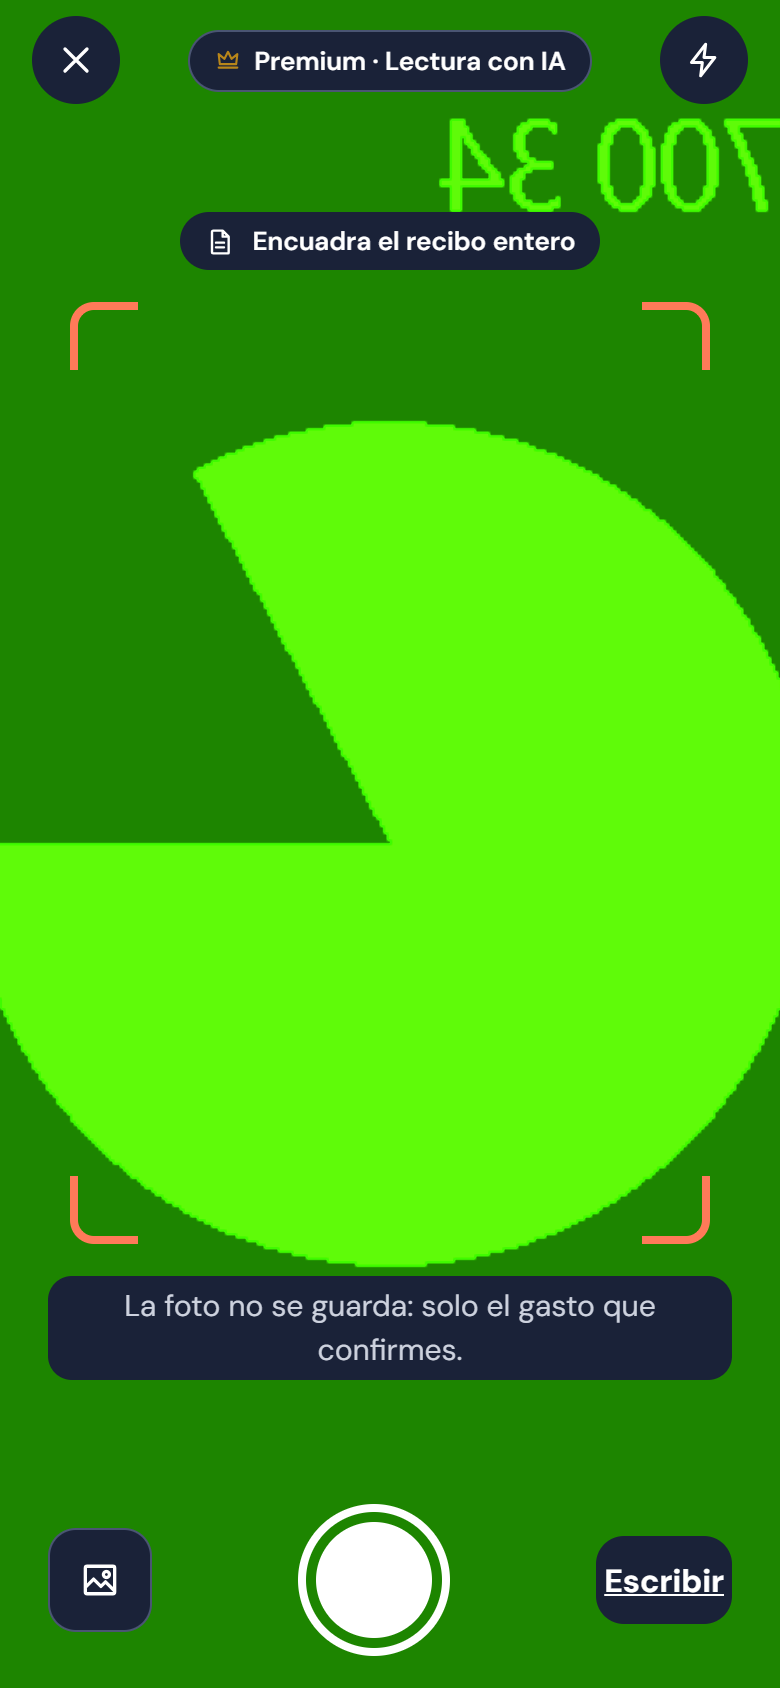
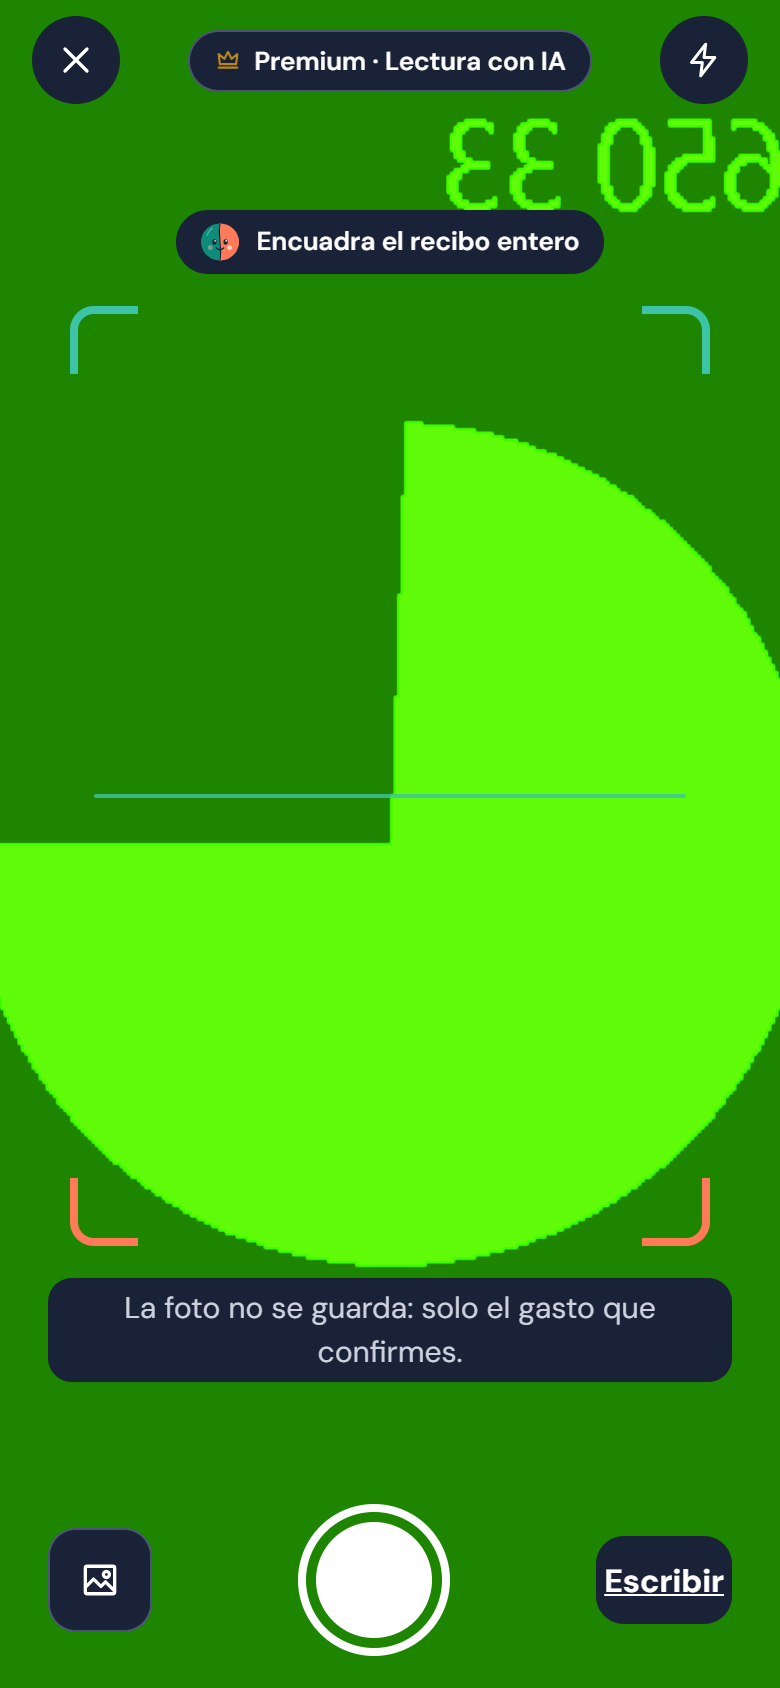
Match the Escanear and Dictar screens to the design
The receipt is a white paper card in both modes with a torn bottom edge,
the date with its year, Pagó in blue and the preview's result in coral.
The camera gets green top and coral bottom corners, a scan line and Miti
in the hint. Dictar's Escribir is blue and the transcript trails off while
listening. Only the new screens and their copy change; screenshots updated.

diff --git a/src/app/expense/receipt.tsx b/src/app/expense/receipt.tsx
@@ -74,12 +74,13 @@ function Review({ reading, couple, net }: { reading: ReceiptReading; couple: Cou
     reading.totalMinor !== null ? fmt(reading.totalMinor) : unknownForeign && reading.totalText ? `${reading.totalText} ${reading.foreignCurrency}` : t.totalUnread;
 
   // ─── The balance after this expense: balance_view + splits.ts ───
-  let preview: string | null = null;
+  let preview: { lead: string; part: string } | string | null = null;
   if (usable && draft.amountMinor) {
     const effect = expenseEffect({ paidBy, amountMinor: draft.amountMinor, splitMode, splitPct: choice.splitPct }, me.id);
     const after = net + effect;
     const own = (n: number) => formatMoney(n, couple.currency);
-    preview = effect === 0 ? t.noChange : after > 0 ? t.owesYou(partner.name, own(after)) : after < 0 ? t.youOwe(partner.name, own(after)) : t.even;
+    const part = after > 0 ? t.owesYou(partner.name, own(after)) : after < 0 ? t.youOwe(partner.name, own(after)) : t.even;
+    preview = effect === 0 ? t.noChange : { lead: t.lead, part };
   }
 
   const payerName = paidBy === me.id ? me.name : partner.name;
@@ -144,35 +145,43 @@ function Review({ reading, couple, net }: { reading: ReceiptReading; couple: Cou
       </View>
 
       <ScrollView contentContainerStyle={styles.content}>
+        {/* The paper receipt: white with dark print in both modes (onHero / hero, checked in tokens.test.ts). */}
+        <View>
         <View style={styles.receipt} accessible accessibilityLabel={[reading.merchant, category.name, total].filter(Boolean).join('. ')}>
           {reading.merchant ? (
-            <Text style={[type.heading, { textAlign: 'center' }]} numberOfLines={2}>
+            <Text style={[type.heading, { textAlign: 'center', color: color.hero }]} numberOfLines={2}>
               {reading.merchant}
             </Text>
           ) : null}
-          <View style={[styles.catChip, { backgroundColor: category.tint }]}>
-            <Icon name={category.icon as IconName} size={14} color={category.color} />
-            <Text style={[type.effect, { color: category.color }]}>{category.name}</Text>
+          <View style={styles.catChip}>
+            <Icon name={category.icon as IconName} size={14} color={color.partnerText} />
+            <Text style={[type.effect, { color: color.partnerText }]}>{category.name}</Text>
           </View>
           <View style={styles.dashed} />
           <View style={styles.line}>
             <Text style={styles.lineLabel}>{t.date}</Text>
-            <Text style={styles.lineValue}>{reading.date ? d.longDate(reading.date) : t.noDate}</Text>
+            <Text style={[styles.lineValue, { fontFamily: font.bodyBold }]}>{reading.date ? `${d.shortDate(reading.date)} ${reading.date.slice(0, 4)}` : t.noDate}</Text>
           </View>
           {reading.items.length > 0 && <View style={styles.dashed} />}
           {reading.items.map((item, i) => (
             <View key={`${i}-${item.name}`} style={styles.line}>
-              <Text style={[styles.lineLabel, { color: color.ink, flex: 1 }]}>{t.line(String(item.qty), item.name)}</Text>
+              <Text style={[styles.lineLabel, { color: color.hero, flex: 1 }]}>{t.line(String(item.qty), item.name)}</Text>
               <Text style={styles.lineValue}>{item.totalMinor !== null ? fmt(item.totalMinor) : '—'}</Text>
             </View>
           ))}
           <View style={styles.dashed} />
           <View style={[styles.line, { alignItems: 'flex-end' }]}>
             <Text style={styles.lineLabel}>{t.total}</Text>
-            <Text style={[type.screenTitle, styles.tabular]} adjustsFontSizeToFit numberOfLines={1}>
+            <Text style={[type.screenTitle, styles.tabular, { color: color.hero }]} adjustsFontSizeToFit numberOfLines={1}>
               {total}
             </Text>
           </View>
+        </View>
+        <View style={styles.tear} aria-hidden>
+          {Array.from({ length: 24 }, (_, i) => (
+            <View key={i} style={styles.tooth} />
+          ))}
+        </View>
         </View>
 
         {!reading.itemsMatchTotal && <Callout icon="doc" tone="neutral">{t.mismatch}</Callout>}
@@ -183,14 +192,20 @@ function Review({ reading, couple, net }: { reading: ReceiptReading; couple: Cou
         ) : null}
 
         <View style={styles.rows}>
-          <Row label={t.paid} value={payerName} onPress={() => setPicker('payer')} />
+          <Row label={t.paid} value={payerName} accent onPress={() => setPicker('payer')} />
           <View style={styles.rowLine} />
           <Row label={t.split} value={splitText} onPress={() => setPicker('split')} />
         </View>
 
         {preview && (
           <Text style={styles.preview} accessibilityLiveRegion="polite">
-            {preview}
+            {typeof preview === 'string' ? (
+              preview
+            ) : (
+              <>
+                {preview.lead} <Text style={{ color: color.partnerText }}>{preview.part}</Text>
+              </>
+            )}
           </Text>
         )}
         {save.isError && (
@@ -276,14 +291,14 @@ function Review({ reading, couple, net }: { reading: ReceiptReading; couple: Cou
   );
 }
 
-function Row({ label, value, onPress }: { label: string; value: string; onPress: () => void }) {
+function Row({ label, value, accent, onPress }: { label: string; value: string; accent?: boolean; onPress: () => void }) {
   const { m } = useI18n();
   const { color, type } = useTheme();
   const styles = useStyles();
   return (
     <Pressable accessibilityRole="button" accessibilityLabel={m.capture.receipt.rowA11y(label, value)} onPress={onPress} style={styles.row}>
       <Text style={[type.row, { color: color.textSecondary, flex: 1 }]}>{label}</Text>
-      <Text style={[type.row, { fontFamily: font.bodyBold, flexShrink: 1, textAlign: 'right' }]} numberOfLines={2}>
+      <Text style={[type.row, { fontFamily: font.bodyBold, flexShrink: 1, textAlign: 'right', color: accent ? color.me : color.ink }]} numberOfLines={2}>
         {value}
       </Text>
       <Icon name="forward" size={18} color={color.textSecondary} />
@@ -307,12 +322,15 @@ const useStyles = makeStyles(({ color, type }) => StyleSheet.create({
     borderColor: color.line,
   },
   content: { padding: space[5], gap: space[4] },
-  receipt: { gap: space[3], padding: space[5], borderRadius: radius.card, backgroundColor: color.surface, borderWidth: 1, borderColor: color.line, alignItems: 'stretch' },
-  catChip: { alignSelf: 'center', flexDirection: 'row', alignItems: 'center', gap: 4, paddingHorizontal: space[2], paddingVertical: 3, borderRadius: radius.tile },
-  dashed: { borderTopWidth: 1, borderStyle: 'dashed', borderColor: color.fieldBorder },
+  receipt: { gap: space[3], padding: space[5], paddingBottom: space[6], borderTopLeftRadius: radius.tile, borderTopRightRadius: radius.tile, backgroundColor: color.onHero, alignItems: 'stretch' },
+  catChip: { alignSelf: 'center', flexDirection: 'row', alignItems: 'center', gap: 4, paddingHorizontal: space[2], paddingVertical: 3, borderRadius: radius.tile, backgroundColor: color.partnerTint },
+  dashed: { borderTopWidth: 1, borderStyle: 'dashed', borderColor: color.heroLine },
+  // The torn bottom edge: small squares in the background colour, turned 45°, biting into the paper.
+  tear: { flexDirection: 'row', justifyContent: 'space-between', height: 7, marginTop: -7, overflow: 'hidden' },
+  tooth: { width: 10, height: 10, marginTop: 2, backgroundColor: color.background, transform: [{ rotate: '45deg' }] },
   line: { flexDirection: 'row', justifyContent: 'space-between', alignItems: 'center', gap: space[3] },
-  lineLabel: { ...type.body, fontSize: 15, color: color.textSecondary },
-  lineValue: { ...type.body, fontSize: 15, color: color.ink, fontVariant: ['tabular-nums'] },
+  lineLabel: { ...type.body, fontSize: 15, color: color.heroLine },
+  lineValue: { ...type.body, fontSize: 15, color: color.hero, fontVariant: ['tabular-nums'] },
   tabular: { fontVariant: ['tabular-nums'], flexShrink: 1 },
   rows: { borderRadius: radius.card, backgroundColor: color.surface, borderWidth: 1, borderColor: color.line },
   row: { flexDirection: 'row', alignItems: 'center', gap: space[2], minHeight: touch + 12, paddingHorizontal: space[4] },

diff --git a/src/app/expense/scan.tsx b/src/app/expense/scan.tsx
@@ -12,6 +12,7 @@ import { canUse } from '@/lib/premium';
 import { readingFromAi } from '@/lib/receiptDraft';
 import { PremiumGate } from '@/ui/Capture';
 import { Icon } from '@/ui/Icon';
+import { Miti } from '@/ui/Miti';
 import { Loading, NavButton } from '@/ui/Screen';
 import { font, radius, space, touch } from '@/ui/tokens';
 import { makeStyles, useTheme } from '@/ui/theme';
@@ -183,7 +184,7 @@ function Camera({ couple }: { couple: Couple }) {
         )}
         <View style={styles.middle}>
           <View style={styles.hint}>
-            <Icon name="doc" size={16} color={color.onHero} />
+            <Miti size={20} />
             <Text style={styles.hintText}>{t.frameHint}</Text>
           </View>
           <View style={styles.frame} aria-hidden>
@@ -191,6 +192,7 @@ function Camera({ couple }: { couple: Couple }) {
             <View style={[styles.corner, styles.tr]} />
             <View style={[styles.corner, styles.bl]} />
             <View style={[styles.corner, styles.br]} />
+            <View style={styles.scanLine} />
           </View>
           <Text style={[styles.lead, styles.note]}>{t.notSaved}</Text>
         </View>
@@ -276,9 +278,11 @@ const useStyles = makeStyles(({ color, type }) => StyleSheet.create({
   hint: { flexDirection: 'row', alignItems: 'center', gap: space[2], paddingHorizontal: space[3], paddingVertical: 6, borderRadius: radius.pill, backgroundColor: color.hero },
   hintText: { ...type.label, color: color.onHero },
   frame: { width: '100%', maxWidth: 320, aspectRatio: 0.68 },
+  // Brand colours, like Miti: green on top, coral below (decoration; the hint says what to do).
   corner: { position: 'absolute', width: CORNER, height: CORNER, borderColor: color.wordmarkCoral },
-  tl: { top: 0, left: 0, borderTopWidth: 4, borderLeftWidth: 4, borderTopLeftRadius: radius.tile },
-  tr: { top: 0, right: 0, borderTopWidth: 4, borderRightWidth: 4, borderTopRightRadius: radius.tile },
+  tl: { top: 0, left: 0, borderTopWidth: 4, borderLeftWidth: 4, borderTopLeftRadius: radius.tile, borderColor: color.wordmarkGreen },
+  tr: { top: 0, right: 0, borderTopWidth: 4, borderRightWidth: 4, borderTopRightRadius: radius.tile, borderColor: color.wordmarkGreen },
+  scanLine: { position: 'absolute', top: '52%', left: space[3], right: space[3], height: 2, borderRadius: 1, backgroundColor: color.wordmarkGreen, opacity: 0.8 },
   bl: { bottom: 0, left: 0, borderBottomWidth: 4, borderLeftWidth: 4, borderBottomLeftRadius: radius.tile },
   br: { bottom: 0, right: 0, borderBottomWidth: 4, borderRightWidth: 4, borderBottomRightRadius: radius.tile },
   lead: { ...type.body, color: color.onInk, fontSize: 15, lineHeight: 22 },

diff --git a/src/app/expense/dictate.tsx b/src/app/expense/dictate.tsx
@@ -174,6 +174,7 @@ function Listening({ couple }: { couple: Couple }) {
                 ) : (
                   transcript
                 )}
+                {listening ? '…' : ''}
               </Text>
             ) : (
               <Text style={[styles.transcript, { color: color.textSecondary }]}>
@@ -265,7 +266,7 @@ const useStyles = makeStyles(({ color, type }) => StyleSheet.create({
   iconButton: { width: touch, height: touch, alignItems: 'center', justifyContent: 'center' },
   headerTitle: { flex: 1, textAlign: 'center' },
   headerAction: { minHeight: touch, minWidth: touch, paddingHorizontal: space[3], alignItems: 'center', justifyContent: 'center' },
-  headerActionText: { ...type.row, color: color.ink, fontFamily: font.bodyBold, textDecorationLine: 'underline' },
+  headerActionText: { ...type.row, color: color.me, fontFamily: font.bodyBold },
   content: { flexGrow: 1, alignItems: 'center', gap: space[4], paddingHorizontal: space[5], paddingVertical: space[4] },
   notice: { flex: 1, justifyContent: 'center', alignSelf: 'stretch', gap: space[4] },
   indicator: { width: 220, height: 220, alignItems: 'center', justifyContent: 'center', marginTop: space[2] },

diff --git a/src/i18n/es.ts b/src/i18n/es.ts
@@ -818,9 +818,11 @@ Vale hasta el ${until}.` : ''),
       rowA11y: (label: string, value: string) => `${label}: ${value}. Toca para cambiarlo`,
       pickPayer: '¿Quién pagó?',
       pickSplit: '¿Cómo se divide?',
-      owesYou: (name: string, amount: string) => `Con este gasto, ${name} te deberá ${amount}`,
-      youOwe: (name: string, amount: string) => `Con este gasto, le deberás ${amount} a ${name}`,
-      even: 'Con este gasto, quedan a mano',
+      /** "Con este gasto, | Ana te deberá $337.850": the second part is highlighted. */
+      lead: 'Con este gasto,',
+      owesYou: (name: string, amount: string) => `${name} te deberá ${amount}`,
+      youOwe: (name: string, amount: string) => `le deberás ${amount} a ${name}`,
+      even: 'quedan a mano',
       noChange: 'Este gasto no cambia el saldo entre ustedes',
       mismatch: 'Las líneas no suman el total. Se usa el total del recibo.',
       foreign: (named: string, own: string) => `El recibo está en ${named} y ustedes usan ${own}. MitiMiti no convierte monedas: escribe el monto en ${own}.`,

diff --git a/src/i18n/de.ts b/src/i18n/de.ts
@@ -784,9 +784,10 @@ Gültig bis ${until}.` : ''),
       rowA11y: (label: string, value: string) => `${label}: ${value}. Tippen zum Ändern`,
       pickPayer: 'Wer hat bezahlt?',
       pickSplit: 'Wie wird geteilt?',
-      owesYou: (name: string, amount: string) => `Mit dieser Ausgabe schuldet dir ${name} ${amount}`,
-      youOwe: (name: string, amount: string) => `Mit dieser Ausgabe schuldest du ${name} ${amount}`,
-      even: 'Mit dieser Ausgabe seid ihr quitt',
+      lead: 'Mit dieser Ausgabe',
+      owesYou: (name: string, amount: string) => `schuldet dir ${name} ${amount}`,
+      youOwe: (name: string, amount: string) => `schuldest du ${name} ${amount}`,
+      even: 'seid ihr quitt',
       noChange: 'Diese Ausgabe ändert den Saldo zwischen euch nicht',
       mismatch: 'Die Zeilen ergeben nicht die Summe. Es zählt die Summe des Belegs.',
       foreign: (named: string, own: string) => `Der Beleg ist in ${named}, ihr nutzt ${own}. MitiMiti rechnet keine Währungen um: Gib den Betrag in ${own} ein.`,

diff --git a/src/i18n/en.ts b/src/i18n/en.ts
@@ -781,9 +781,10 @@ Valid until ${until}.` : ''),
       rowA11y: (label: string, value: string) => `${label}: ${value}. Tap to change it`,
       pickPayer: 'Who paid?',
       pickSplit: 'How is it split?',
-      owesYou: (name: string, amount: string) => `With this expense, ${name} will owe you ${amount}`,
-      youOwe: (name: string, amount: string) => `With this expense, you'll owe ${name} ${amount}`,
-      even: "With this expense, you'll be even",
+      lead: 'With this expense,',
+      owesYou: (name: string, amount: string) => `${name} will owe you ${amount}`,
+      youOwe: (name: string, amount: string) => `you'll owe ${name} ${amount}`,
+      even: "you'll be even",
       noChange: "This expense doesn't change the balance between you",
       mismatch: "The lines don't add up to the total. The receipt's total is used.",
       foreign: (named: string, own: string) => `The receipt is in ${named} and you two use ${own}. MitiMiti doesn't convert currencies: type the amount in ${own}.`,

diff --git a/src/ui/__tests__/tokens.test.ts b/src/ui/__tests__/tokens.test.ts
@@ -31,6 +31,9 @@ const pairs: Pair[] = [
   ['partnerText', 'partnerTint', TEXT, "partner's avatar"],
   ['partnerText', 'background', TEXT, 'the amount highlighted in the Dictar transcript, the listening dot'],
   ['warningText', 'neutralTint', GRAPHIC, 'crown on the Premium badge of Escanear / Dictar'],
+  ['me', 'background', TEXT, 'Escribir on Dictar'],
+  ['heroLine', 'onHero', TEXT, 'labels on the paper receipt (Fecha, Total)'],
+  ['partnerText', 'partnerTint', TEXT, 'category chip on the paper receipt'],
   ['positiveText', 'surface', TEXT, '"Te deben", "Pago"'],
   ['positiveText', 'positiveTint', TEXT, 'balance effect notice'],
   ['warningText', 'surface', TEXT, '"Ojo: quedan"'],
